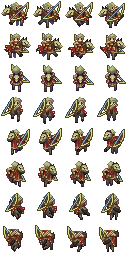
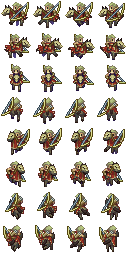
Fixed another clipping offset error that left out last diagonal-upward sprite

diff --git a/splitter.py b/splitter.py
@@ -70,13 +70,13 @@ CROP = {
         MOVE: {
             LARGE: {
                 SIZE : (256,256),
-                'start': (2,38),
+                'start': (2,68),
                 'sub'  : (32,32),
                 },
             
             SMALL: {
-                SIZE : (256,112),
-                'start': (2,422),
+                SIZE : (256,128),
+                'start': (2,406),
                 'sub'  : (16,16),
                 },
             
